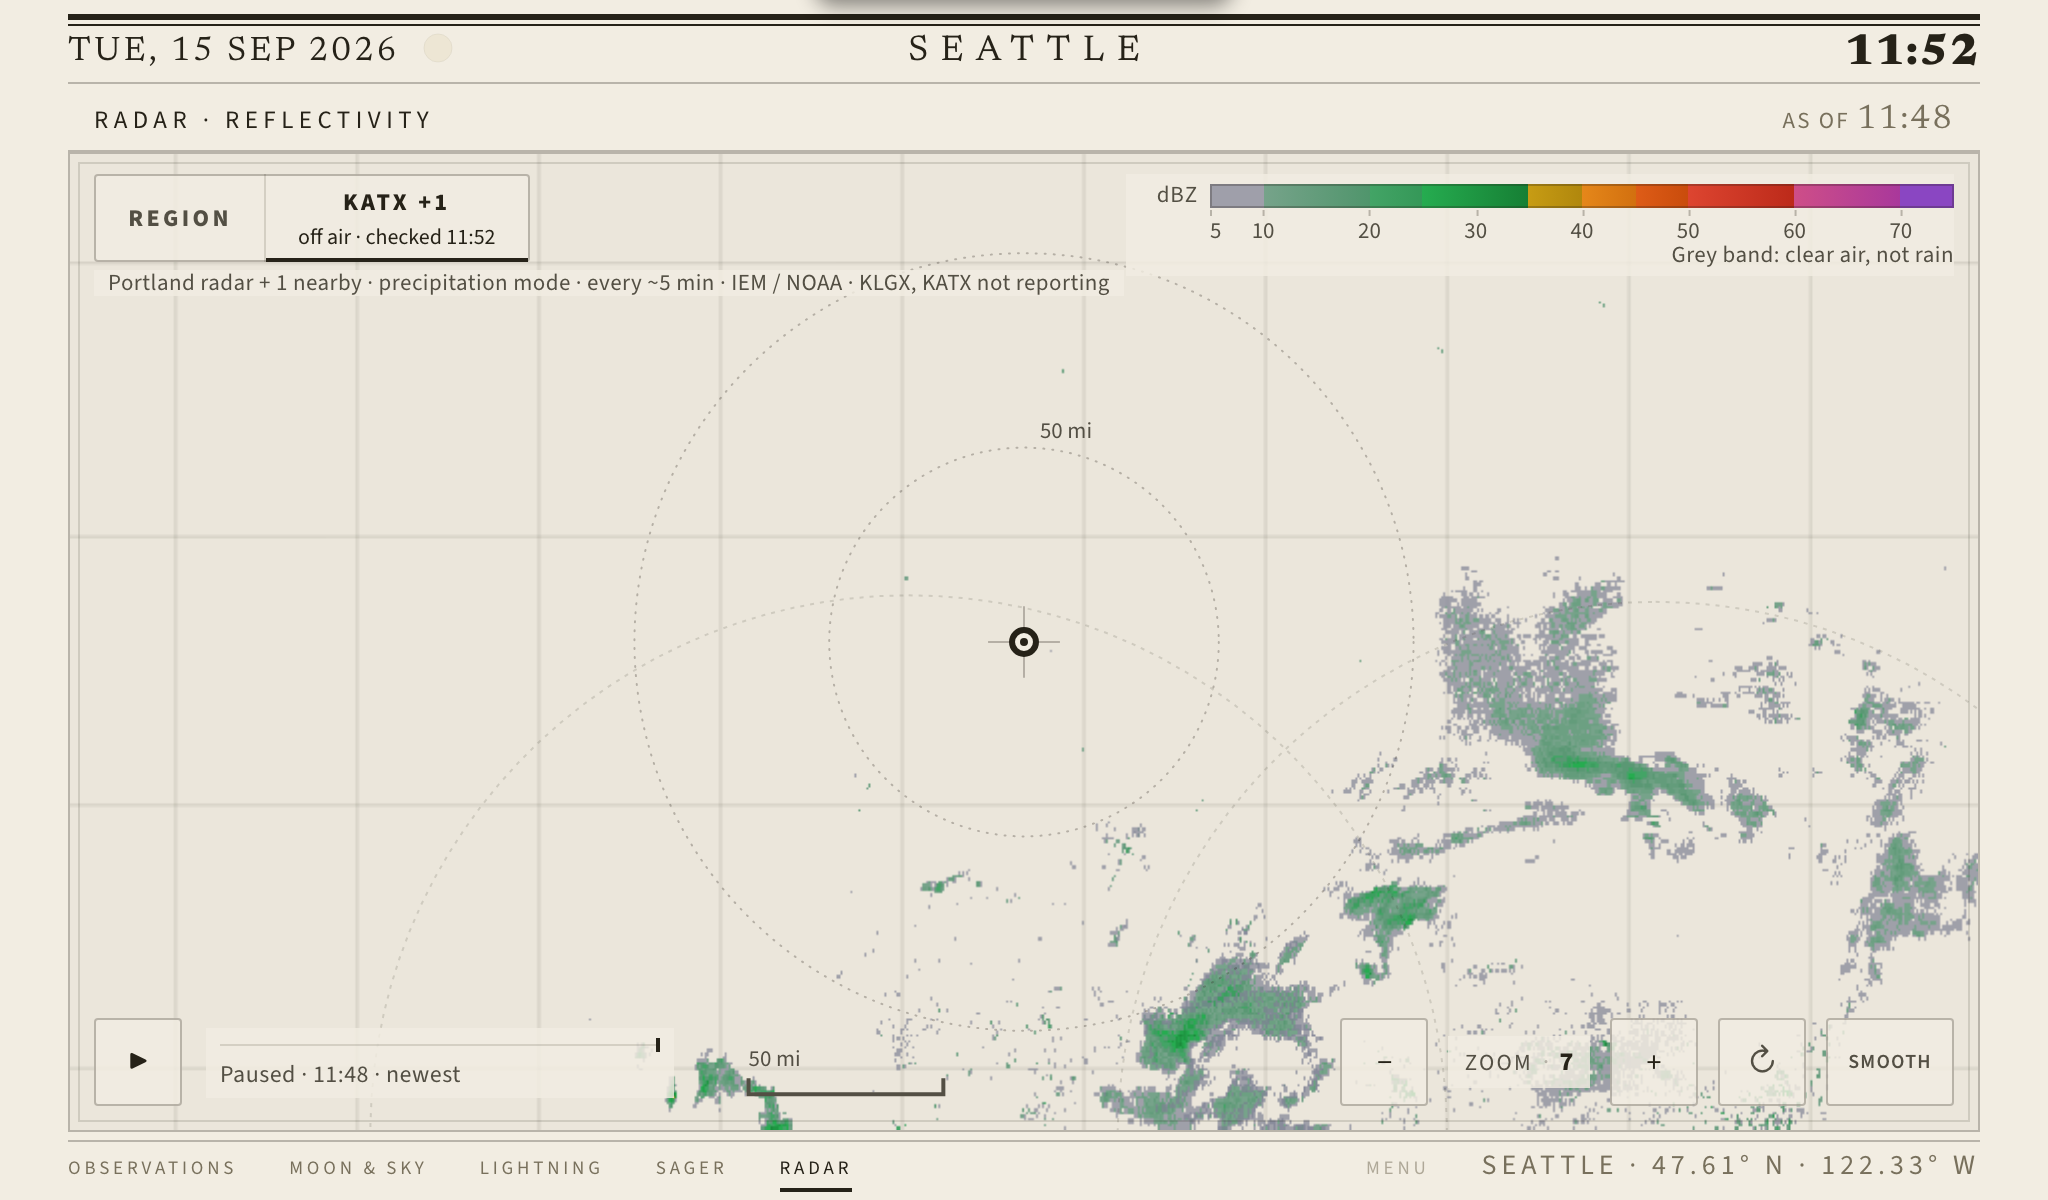
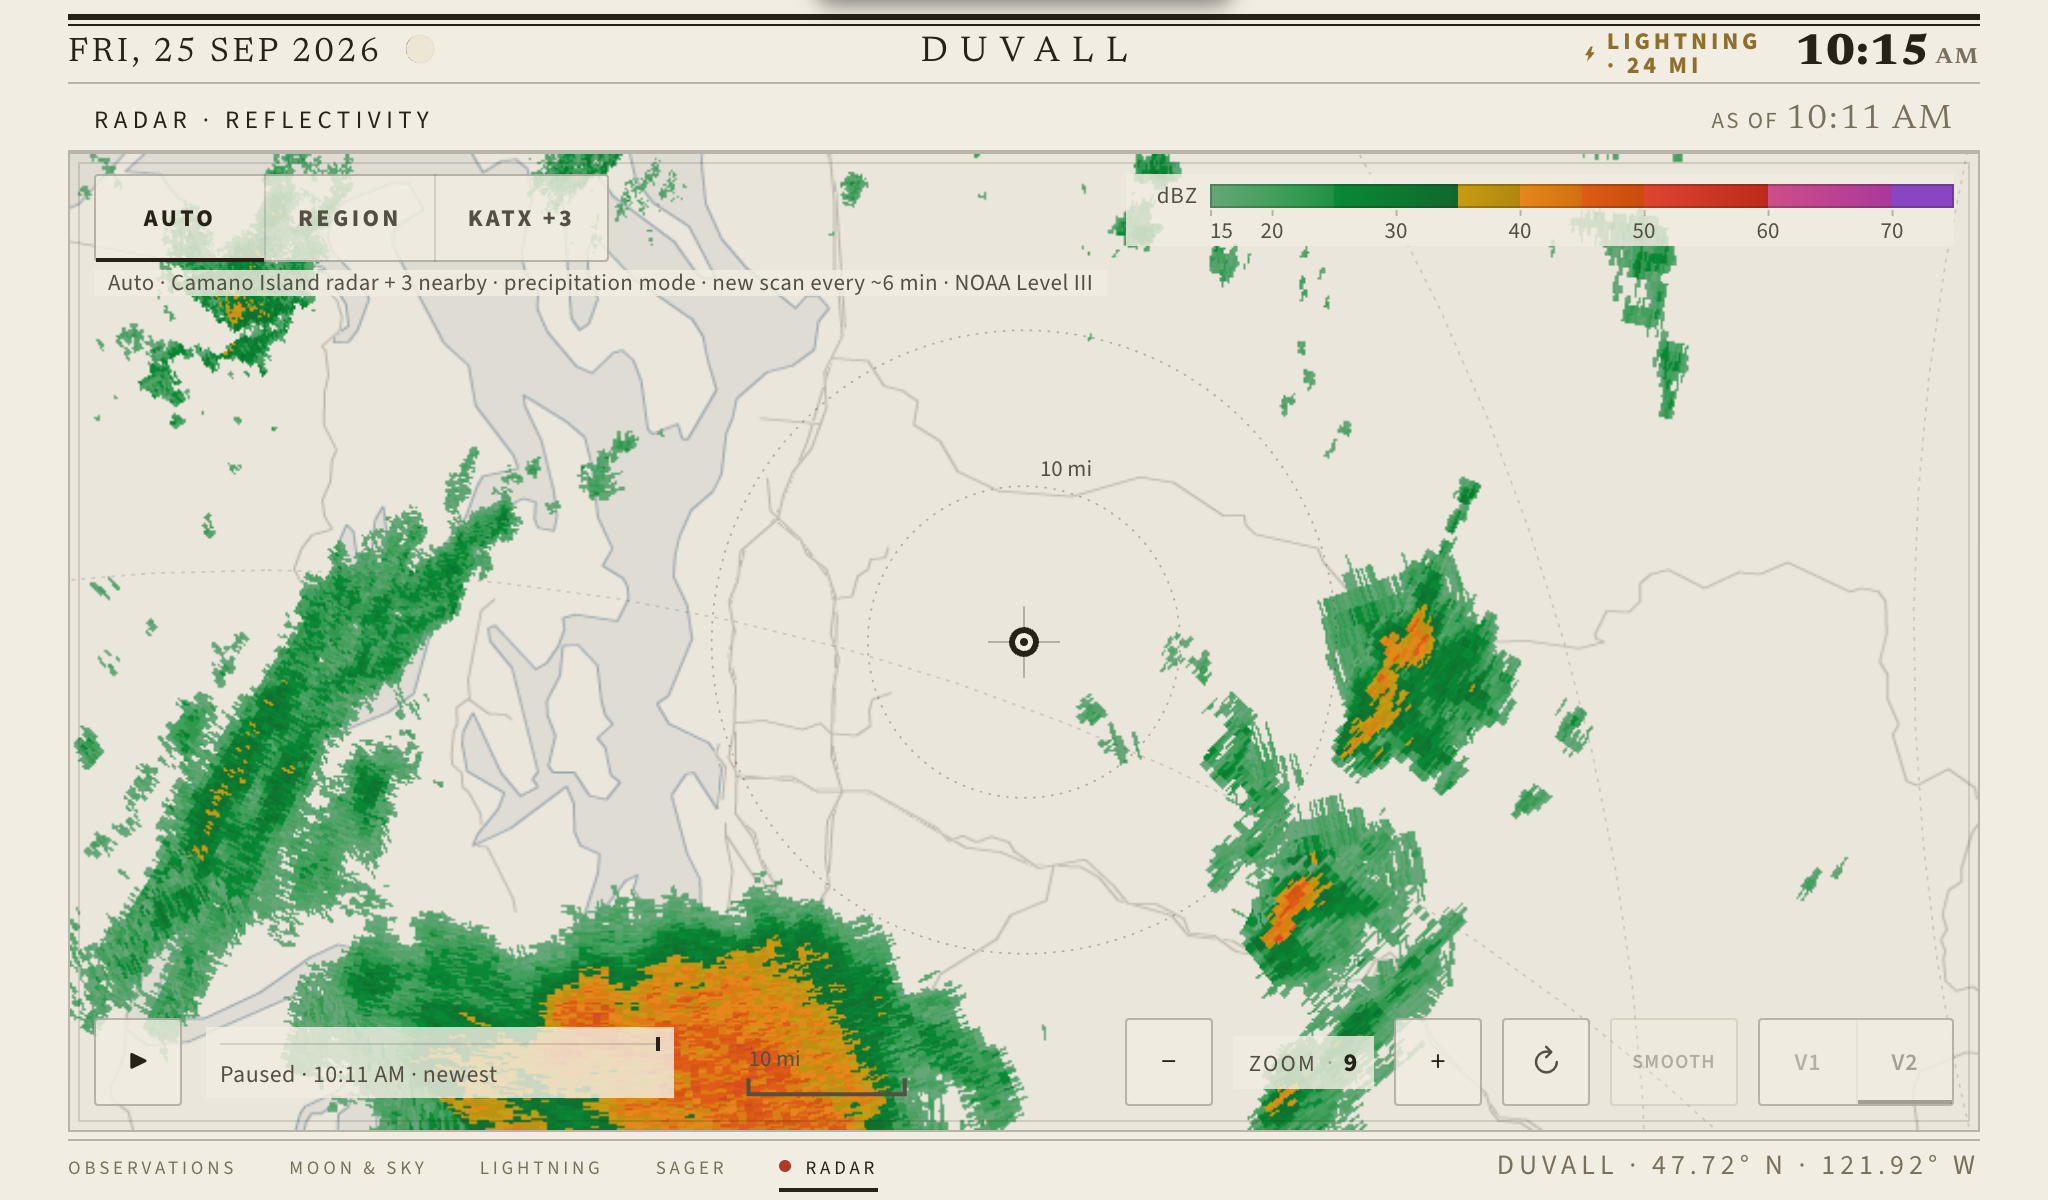
docs: new radar screenshots and loop from the Pi 4 (Auto, v2 mosaic, v3 greens)
Captured from the panel's LAN view at 2x in the paper theme on 2026-09-25:
Region at zoom 8, Auto on the v2 mosaic at zoom 9, and eight v2 frames
(9:34-10:11 AM) recorded while the loop played.

Claude-Session: https://claude.ai/code/session_017Wp2A1N6SFcQ4xNbdCXiQ3

diff --git a/README.md b/README.md
@@ -133,11 +133,11 @@ and the caption says "unfiltered". Region and v1 keep their existing pictures. T
 while you're away and the view drifts back to it after a minute and a half
 untouched.
 
-![The Radar tab in Region mode: MRMS reflectivity over the Puget Sound coastline, roads and county lines](design/almanac/screenshots/radar.png)
+![The Radar tab in Region mode: the NOAA MRMS mosaic over Puget Sound on a showery morning, with the Auto, Region and KATX buttons](design/almanac/screenshots/radar.png)
 
-![The Radar tab in high-resolution mode: the nearest NEXRAD site's own scans, with its operating mode in the caption](design/almanac/screenshots/radar-site.png)
+![The Radar tab on Auto at zoom 9: v2 draws the radar's own 250-metre cells, KATX and three neighbours merged pixel by pixel](design/almanac/screenshots/radar-site.png)
 
-![The recent frames looping on the Radar tab](design/almanac/screenshots/radar.gif)
+![Forty minutes of v2 radar looping: showers moving across the Cascade foothills](design/almanac/screenshots/radar.gif)
 
 What it changes:
 
